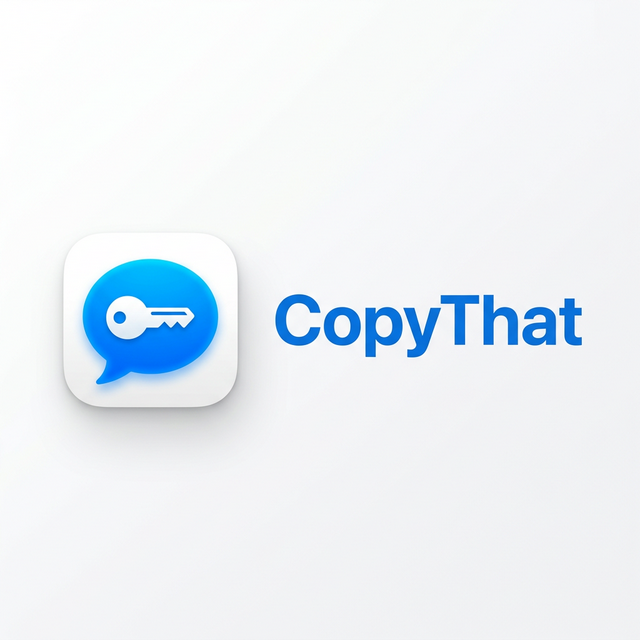
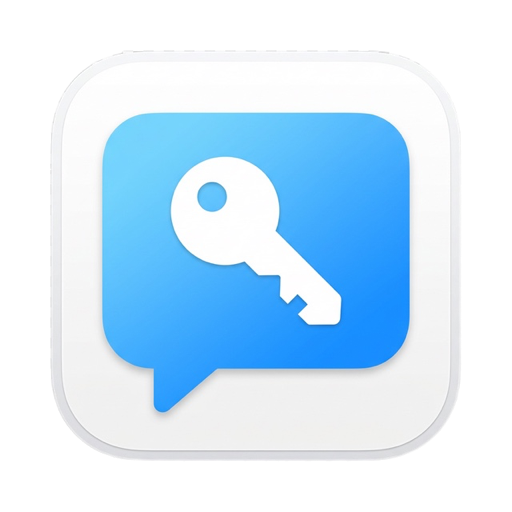
feat: redesign Experiments tiles — compact horizontal layout + refreshed assets
- Switch project cards from vertical to horizontal (image left 40%, content right) with tighter typography, smaller border radius, and a min-height for consistent rows
- Add isAppIcon / isWordmark tile variants with brand-color-tinted radial gradients so each tile reads as its own piece rather than a generic template
- Replace AmbulanceCost and CopyThat hero photos with iOS-style app icons (blue squircle ambulance, key-in-bubble glyph)
- Generate YourNYC wordmark from SVG source (Helvetica Neue Condensed Black, white on transparent so it sits on the tile haze instead of a black square)
- Drop the unused 388KB yournyc_hero.jpg
- New KindShare illustration

diff --git a/src/index.css b/src/index.css
@@ -4974,8 +4974,8 @@ body:has(.book-overlay-container) {
 .projects-grid {
   display: grid;
   grid-template-columns: repeat(2, 1fr);
-  gap: clamp(1.5rem, 3vw, 2.5rem);
-  margin-top: 3rem;
+  gap: clamp(1.25rem, 2.25vw, 1.75rem);
+  margin-top: 2.5rem;
   max-width: 1400px;
   margin-left: auto;
   margin-right: auto;
@@ -4983,19 +4983,21 @@ body:has(.book-overlay-container) {
 
 .project-card {
   display: flex;
-  flex-direction: column;
+  flex-direction: row;
   background: var(--panel-bg);
   border: 1px solid var(--panel-border);
-  border-radius: 32px;
+  border-radius: 20px;
   overflow: hidden;
   transition: all 0.6s cubic-bezier(0.4, 0, 0.2, 1);
   box-shadow: 0 4px 6px rgba(0,0,0,0.02);
   position: relative;
+  min-height: 220px;
 }
 
 .project-card-image {
-  width: 100%;
-  aspect-ratio: 16/9;
+  width: 40%;
+  flex-shrink: 0;
+  align-self: stretch;
   position: relative;
   overflow: hidden;
   background: var(--panel-bg);
@@ -5016,15 +5018,88 @@ body:has(.book-overlay-container) {
   transition: opacity 0.6s ease;
 }
 
+.project-card-image.is-icon {
+  display: flex;
+  align-items: center;
+  justify-content: center;
+}
+
+.project-card-image.is-app-icon {
+  background:
+    radial-gradient(ellipse 90% 70% at 22% 18%,
+      color-mix(in srgb, var(--project-color, #888) 14%, transparent) 0%,
+      transparent 60%),
+    radial-gradient(ellipse 80% 60% at 85% 95%,
+      color-mix(in srgb, var(--project-color, #888) 8%, transparent) 0%,
+      transparent 65%),
+    linear-gradient(140deg,
+      color-mix(in srgb, var(--project-color, #fff) 2%, #ffffff) 0%,
+      color-mix(in srgb, var(--project-color, #fff) 5%, #f3f5f9) 100%);
+  display: flex;
+  align-items: center;
+  justify-content: center;
+}
+
+.project-card-image.is-app-icon.is-dark {
+  background:
+    radial-gradient(ellipse 90% 70% at 22% 18%,
+      color-mix(in srgb, var(--project-color, #888) 45%, #0e1124) 0%,
+      transparent 60%),
+    radial-gradient(ellipse 80% 60% at 85% 95%,
+      color-mix(in srgb, var(--project-color, #888) 22%, #07090d) 0%,
+      transparent 65%),
+    linear-gradient(140deg, #1a1d2e 0%, #05070f 100%);
+}
+
+.project-card-image.is-wordmark {
+  background:
+    radial-gradient(circle at 50% 40%, #14181f 0%, #07090d 80%, #000000 100%);
+  display: flex;
+  align-items: center;
+  justify-content: center;
+}
+
+.project-card-image.is-wordmark img {
+  width: 82%;
+  height: auto;
+  max-height: 70%;
+  object-fit: contain;
+}
+
+@media (hover: hover) {
+  .project-card:hover .project-card-image.is-wordmark img {
+    transform: scale(1.05);
+  }
+}
+
+.project-card-image.is-app-icon img {
+  width: auto;
+  height: auto;
+  max-width: 70%;
+  max-height: 78%;
+  object-fit: contain;
+}
+
+@media (hover: hover) {
+  .project-card:hover .project-card-image.is-app-icon img {
+    transform: scale(1.05);
+  }
+}
+
 .project-card-content {
-  padding: clamp(1.5rem, 2.5vw, 2rem);
+  flex: 1;
+  display: flex;
+  flex-direction: column;
+  justify-content: space-between;
+  padding: clamp(1.25rem, 1.75vw, 1.5rem) clamp(1.25rem, 1.75vw, 1.75rem);
+  min-width: 0;
 }
 
 .project-card-header {
   display: flex;
   align-items: center;
-  gap: 1.2rem;
-  margin-bottom: 1.5rem;
+  gap: 1rem;
+  margin-bottom: 0.875rem;
 }
 
 .project-icon-wrapper {
@@ -5043,13 +5118,13 @@ body:has(.book-overlay-container) {
 
 @media (hover: hover) {
   .project-card:hover {
-    transform: translateY(-12px);
-    box-shadow: 0 40px 80px rgba(0,0,0,0.1);
+    transform: translateY(-6px);
+    box-shadow: 0 24px 48px rgba(0,0,0,0.08);
     border-color: #cbd5e1;
   }
 
   .project-card:hover .project-card-image img {
-    transform: scale(1.1);
+    transform: scale(1.05);
   }
 
   .project-card:hover .project-card-overlay {
@@ -5063,42 +5138,44 @@ body:has(.book-overlay-container) {
 }
 
 .project-meta h3 {
-  font-size: clamp(1.4rem, 2vw, 1.8rem);
+  font-size: clamp(1.15rem, 1.4vw, 1.4rem);
   font-weight: 800;
-  margin-bottom: 0.2rem;
+  margin-bottom: 0.25rem;
   color: var(--text-main);
+  line-height: 1.2;
 }
 
 .project-subtitle {
+  display: inline-block;
   font-family: var(--font-heading);
-  font-size: 0.85rem;
+  font-size: 0.7rem;
   color: var(--text-muted);
   text-transform: uppercase;
-  letter-spacing: 0.15em;
+  letter-spacing: 0.14em;
   font-weight: 600;
 }
 
 .project-card-body p {
-  font-size: clamp(1rem, 1.1vw, 1.15rem);
-  line-height: 1.6;
+  font-size: 0.9375rem;
+  line-height: 1.55;
   color: var(--text-muted);
-  max-width: 1100px;
-  margin-bottom: 2rem;
+  margin-bottom: 1.125rem;
 }
 
 .project-card-footer {
   display: flex;
-  gap: 1.5rem;
+  gap: 1.125rem;
   align-items: center;
   flex-wrap: wrap;
+  margin-top: auto;
 }
 
 .project-card-footer.cta-centered {
-  justify-content: center;
+  justify-content: flex-start;
 }
 
 .project-cta-btn {
-  padding: 1rem 2.5rem;
+  padding: 0.55rem 1.25rem;
   background: color-mix(in srgb, var(--text-main) 10%, transparent);
   backdrop-filter: blur(10px);
   -webkit-backdrop-filter: blur(10px);
@@ -5107,7 +5184,7 @@ body:has(.book-overlay-container) {
   border-radius: 99px;
   font-family: var(--font-heading);
   font-weight: 700;
-  font-size: 1rem;
+  font-size: 0.85rem;
   cursor: pointer;
   transition: all 0.4s cubic-bezier(0.4, 0, 0.2, 1);
   box-shadow: 0 6px 14px rgba(0,0,0,0.06);
@@ -5124,13 +5201,13 @@ body:has(.book-overlay-container) {
 .project-link {
   display: inline-flex;
   align-items: center;
-  gap: 0.5rem;
+  gap: 0.4rem;
   font-weight: 600;
-  font-size: 0.95rem;
+  font-size: 0.85rem;
   color: var(--text-main);
   text-decoration: none;
-  border-bottom: 2px solid var(--panel-border);
-  padding-bottom: 2px;
+  border-bottom: 1.5px solid var(--panel-border);
+  padding-bottom: 1px;
   transition: all 0.3s ease;
 }
 
@@ -5145,38 +5222,42 @@ body:has(.book-overlay-container) {
 @media (max-width: 1100px) {
   .projects-grid {
     grid-template-columns: 1fr;
-    max-width: 800px;
+    max-width: 760px;
   }
 }
 
 @media (max-width: 768px) {
   .project-card {
-    border-radius: 24px;
+    flex-direction: column;
+    border-radius: 18px;
+    min-height: 0;
   }
   .projects-grid {
     max-width: 100%;
-    gap: 2rem;
+    gap: 1.25rem;
   }
   .project-card-image {
+    width: 100%;
     aspect-ratio: 16/9;
   }
   .project-card-header {
     flex-direction: column;
     align-items: flex-start;
-    gap: 1rem;
+    gap: 0.5rem;
+    margin-bottom: 0.75rem;
   }
   .project-icon-wrapper {
     width: 48px;
     height: 48px;
     min-width: 48px;
   }
-  .project-icon-wrapper img, 
+  .project-icon-wrapper img,
   .project-icon-wrapper svg {
     width: 24px !important;
     height: 24px !important;
   }
   .project-card-content {
-    padding: 1.5rem;
+    padding: 1.25rem;
   }
 }
 

diff --git a/src/App.jsx b/src/App.jsx
@@ -1810,6 +1810,8 @@ const projectsData = [
     icon: <HeartPulse size={32} />,
     color: '#ef4444',
     image: '/projects/ambulance_hero.png',
+    isAppIcon: true,
+    noOverlay: true,
     links: [
       { label: 'Visit Site', url: 'https://ambulancecost.com' }
     ]
@@ -1864,6 +1866,8 @@ const projectsData = [
     icon: <Smartphone size={32} />,
     color: '#2563eb',
     image: '/projects/copythat_hero.png',
+    isAppIcon: true,
+    noOverlay: true,
   },
   {
     id: 'yournyc',
@@ -1872,7 +1876,8 @@ const projectsData = [
     description: 'An ongoing open-source civic initiative making city data accessible and interactive. What started as a project to turn New York City\'s published documents into a dedicated application has since expanded to include San Francisco, helping citizens easily browse, filter, and find what\'s relevant to their neighborhood.',
     icon: <FileText size={32} />,
     color: '#0ea5e9',
-    image: '/projects/yournyc_hero.jpg',
+    image: '/projects/yournyc_hero.png',
+    isWordmark: true,
     noOverlay: true,
     links: [
       { label: 'Visit YourNYC', url: 'https://www.yournyc.app' },
@@ -4919,19 +4924,29 @@ function App() {
                   }}
                   style={{ cursor: project.expandable ? 'pointer' : 'default' }}
                 >
-                  {(project.image || project.iframe) && (
-                    <div className="project-card-image">
-                      {project.iframe ? (
-                        <iframe 
-                          src={project.iframe} 
-                          title={project.title} 
+                  {(project.image || project.iframe || project.useIconImage) && (
+                    <div
+                      className={`project-card-image${project.useIconImage ? ' is-icon' : ''}${project.isAppIcon ? ' is-app-icon' : ''}${project.isDarkIcon ? ' is-dark' : ''}${project.isWordmark ? ' is-wordmark' : ''}`}
+                      style={{ '--project-color': project.color }}
+                    >
+                      {project.useIconImage ? (
+                        <div
+                          className="project-icon-wrapper"
+                          style={{ '--project-color': project.color }}
+                        >
+                          {project.icon}
+                        </div>
+                      ) : project.iframe ? (
+                        <iframe
+                          src={project.iframe}
+                          title={project.title}
                           style={{ width: '100%', height: '100%', border: 'none', pointerEvents: 'none' }}
                           scrolling="no"
                         />
                       ) : (
                         <img src={project.image} alt={project.title} />
                       )}
-                      {!project.noOverlay && (
+                      {!project.noOverlay && !project.useIconImage && (
                         <div className="project-card-overlay" style={{ '--project-color': project.color }}></div>
                       )}
                     </div>
